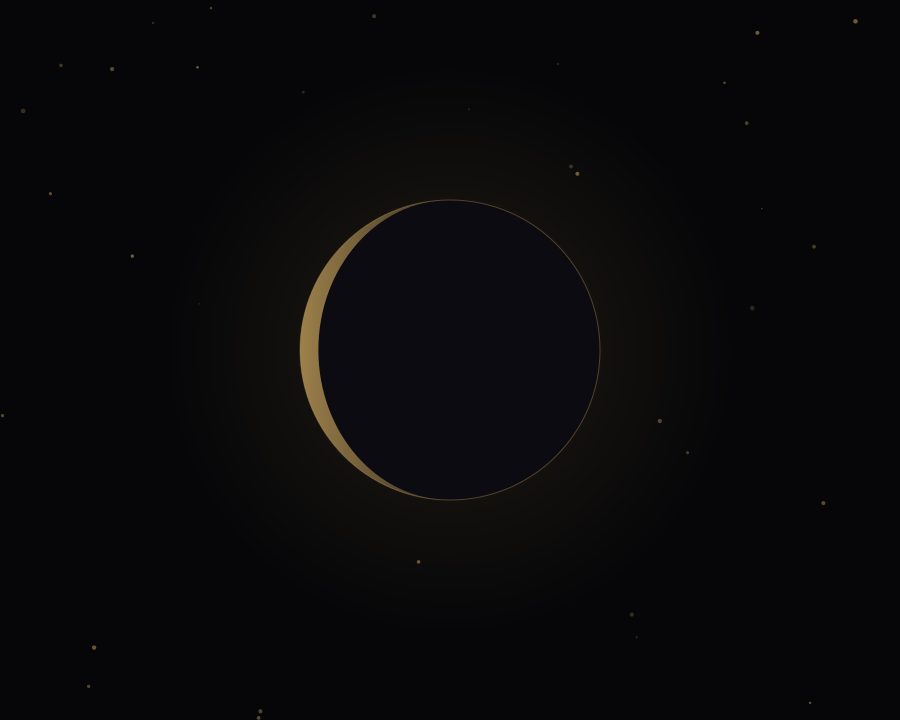
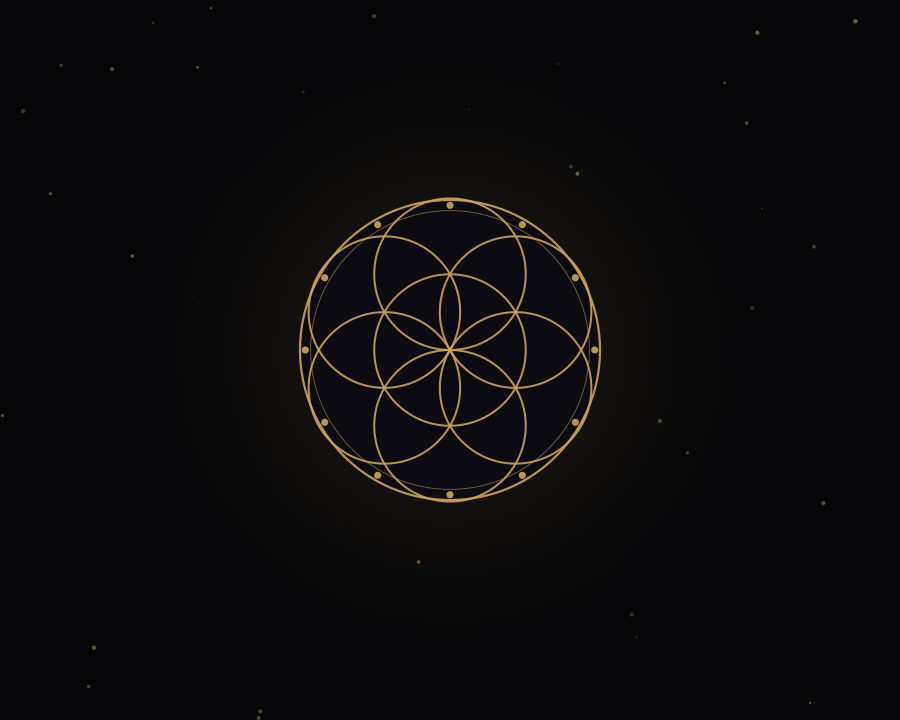
Summons: the seed moves into the moon; the letter is one screen
The bottom seed band is gone entirely. The Seed of Life is now inscribed
perfectly within the moon's limb (its outer ring IS the moon's edge),
generated by store-assets/sacred-background.mjs. Logo and wordmark move
up, the scripture footer closes the single column, and the whole letter
fits one viewport, so Gmail never collapses anything behind 'show quoted
text'.

diff --git a/meek-meet/src/lib/handbook.ts b/meek-meet/src/lib/handbook.ts
@@ -186,17 +186,14 @@ export function toRoman(n: number): string {
 /** The Seed of Life emblem (used on the site and in dark contexts). */
 export const SANCTUM_EMBLEM_URL = "https://meekmeet.com/sacred/seed-of-life.png";
 
-/** The top band: the new moon the whole platform turns on. */
+/** The letter's sky: the dark moon bearing the Seed of Life within its
+ *  limb, presiding over the top of the letter. */
 export const SANCTUM_MOON_BG_URL = "https://meekmeet.com/sacred/new-moon-bg.png";
 
-/** The bottom band: the Seed of Life blooming from below the button and
- *  overflowing off the bottom edge of the letter. */
-export const SANCTUM_SEED_BG_URL = "https://meekmeet.com/sacred/seed-bottom.png";
-
-/** The black-letter shell: the new moon presides over the top of the
- *  letter; the Seed of Life blooms beneath the button and overflows off
- *  the bottom edge. Two anchored bands, so the composition holds at any
- *  email height. */
+/** The black-letter shell: the moon bearing the Seed of Life presides over
+ *  the top of the letter; the scripture footer closes it. The whole letter
+ *  fits on one screen, so nothing is ever collapsed behind "show quoted
+ *  text". */
 function sanctumShell(options: { preheader: string; contentHtml: string }): string {
   const t = EMAIL_THEMES.sanctum;
   return `
@@ -215,33 +212,25 @@ function sanctumShell(options: { preheader: string; contentHtml: string }): stri
         <td align="center" bgcolor="${t.pageBg}" background="${SANCTUM_MOON_BG_URL}" style="background-color:${t.pageBg}; background-image:url('${SANCTUM_MOON_BG_URL}'); background-position:center top; background-repeat:no-repeat;">
           <table role="presentation" width="560" cellpadding="0" cellspacing="0" style="max-width:560px; width:100%;">
             <tr>
-              <td align="center" style="padding:52px 40px 14px;">
-                <img src="${SANCTUM_LOGO_URL}" alt="Meek Meet" width="52" height="52" style="display:inline-block; border-radius:13px; border:0;" />
+              <td align="center" style="padding:30px 40px 10px;">
+                <img src="${SANCTUM_LOGO_URL}" alt="Meek Meet" width="46" height="46" style="display:inline-block; border-radius:11px; border:0;" />
               </td>
             </tr>
             <tr>
-              <td align="center" style="padding:0 40px 30px;">
-                <span style="font-family:${t.headingFont}; font-size:19px; letter-spacing:0.26em; color:#ece8dc;">MEEK&nbsp;MEET</span>
+              <td align="center" style="padding:0 40px 20px;">
+                <span style="font-family:${t.headingFont}; font-size:17px; letter-spacing:0.26em; color:#ece8dc;">MEEK&nbsp;MEET</span>
               </td>
             </tr>
             <tr>
-              <td style="padding:10px 44px 40px; font-family:${t.bodyFont}; color:${t.ink};">
+              <td style="padding:6px 44px 26px; font-family:${t.bodyFont}; color:${t.ink};">
                 ${options.contentHtml}
               </td>
             </tr>
-          </table>
-          <table role="presentation" width="100%" cellpadding="0" cellspacing="0">
             <tr>
-              <td align="center" valign="top" height="240" background="${SANCTUM_SEED_BG_URL}" style="background-image:url('${SANCTUM_SEED_BG_URL}'); background-position:center bottom; background-repeat:no-repeat; padding-top:26px;">
-                <table role="presentation" width="560" cellpadding="0" cellspacing="0" style="max-width:560px; width:100%;">
-                  <tr>
-                    <td align="center" style="padding:0 40px; font-family:${t.bodyFont}; font-size:11.5px; color:${t.faint}; line-height:2;">
-                      <em style="font-size:13px; color:${t.accent};">&ldquo;Blessed are the meek, for they shall inherit the earth.&rdquo;</em><br />
-                      <span style="font-size:10.5px;">The promise has many names: Matthew 5:5 &middot; Psalm 37:11 &middot; Qur&rsquo;an 21:105 &middot; Tao Te Ching 66</span><br />
-                      <a href="https://meekmeet.com" style="color:${t.muted}; text-decoration:underline;">meekmeet.com</a>
-                    </td>
-                  </tr>
-                </table>
+              <td align="center" style="padding:0 40px 34px; font-family:${t.bodyFont}; font-size:11.5px; color:${t.faint}; line-height:2;">
+                <em style="font-size:13px; color:${t.accent};">&ldquo;Blessed are the meek, for they shall inherit the earth.&rdquo;</em><br />
+                <span style="font-size:10.5px;">The promise has many names: Matthew 5:5 &middot; Psalm 37:11 &middot; Qur&rsquo;an 21:105 &middot; Tao Te Ching 66</span><br />
+                <a href="https://meekmeet.com" style="color:${t.muted}; text-decoration:underline;">meekmeet.com</a>
               </td>
             </tr>
           </table>

diff --git a/meek-meet/src/lib/handbook.test.ts b/meek-meet/src/lib/handbook.test.ts
@@ -271,10 +271,10 @@ describe("buildHandbookEmail — the summons", () => {
     expect(html).not.toContain("zoom.us");
   });
 
-  it("wears the sacred geometry: one pattern fills the whole black letter", () => {
+  it("wears the sacred geometry: the moon bears the seed, one screen, no second band", () => {
     const { html } = buildHandbookEmail({ ...base, variant: "returning" });
     expect(html).toContain(SANCTUM_MOON_BG_URL);
-    expect(html).toContain(SANCTUM_SEED_BG_URL);
+    expect(html).not.toContain("seed-bottom"); // no bottom band: nothing to expand
     expect(html).toContain("background-image");
     expect(html).toContain("logo.png"); // the mark still crowns the letter
     expect(html).toContain("#060608"); // true black
@@ -382,7 +382,7 @@ describe("buildLeaderPackEmail — the leader's summons", () => {
   it("wears the sacred geometry in gold on true black", () => {
     const { html } = buildLeaderPackEmail(base);
     expect(html).toContain(SANCTUM_MOON_BG_URL);
-    expect(html).toContain(SANCTUM_SEED_BG_URL);
+    expect(html).not.toContain("seed-bottom"); // one screen, no second band
     expect(html).toContain("#060608");
     expect(html).toContain("#c9a45c");
     expect(html).not.toContain("—");

diff --git a/meek-meet/AGENTS.md b/meek-meet/AGENTS.md
@@ -31,7 +31,7 @@ Meek Meet is a faith-rooted, interfaith community organizing platform. The core 
 - **No reservation, no participation**: `join_url` renders only for signed-in users with an active `going` RSVP — already an invariant, and the foundation of the model.
 - **One theme per weekday** (`packages/core/src/questions/circle-topics.ts`): every circle gathering on the same weekday — anywhere in the country — sits with the same circle topic (Sunday The Source … Saturday Justice & the Common Good), with a ~12-question bank per theme. The theme follows the meeting's weekday **in Australia/Sydney** (`getTopicForDate`), never UTC. The bank is shared with mobile via `@meekmeet/core` — change it in core only.
 - **The questions are never fixed**: four days before a meeting, `/api/handbook-dispatch` (daily cron, 19:00 UTC) creates a `session_handbooks` row (migrations 000038/000039) for every `going` RSVP with **3 questions drawn at random** from the day's theme plus **1 threshold question**, stamps `topic_id`, and emails the member their **summons** — never the session. Idempotent via `(meeting_id, profile_id)`, `emailed_at`, and `meetings.leader_pack_sent_at`.
-- **The summons is sealed (sanctum theme)**: the emails are deliberately near-empty (~70 words) — an envelope line ("For X — and no one else"), a headline ("You are expected." / "The room is yours."), the inscribed date, the wax seal (`III · I` in a gold ring), one breath of law, one button. They NEVER carry the theme, the questions, the roster names, the place, or the join link — everything opens only behind sign-in (`BREAK THE SEAL` → the handbook page; the leader room for the leader). The sanctum theme lives in `EMAIL_THEMES` outside the marketing ladder (`EMAIL_THEME_ORDER` stays 3 rungs).
+- **The summons is sealed (sanctum theme)**: the emails are deliberately near-empty (~70 words) — a black letter whose sky is the dark moon bearing the Seed of Life inscribed within its limb (generated by `store-assets/sacred-background.mjs` → `public/sacred/new-moon-bg.png`), the logo + MEEK MEET wordmark, a standing copy form (`{name},` / `{circle} meets {date} · {mode}.` / the law: answer before you join, in the circle you read what you wrote), one button, one attendance line, and the scripture footer. The whole letter fits on one screen — no second band, nothing collapsed behind "show quoted text". They NEVER carry the theme, the questions, the roster names, the place, or the join link — everything opens only behind sign-in (the handbook page; the leader room for the leader). The sanctum theme lives in `EMAIL_THEMES` outside the marketing ladder (`EMAIL_THEME_ORDER` stays 3 rungs).
 - **Members may redraw any drawn question** ("Draw another" on `/dashboard/handbook/[meetingId]` → `regenerateHandbookQuestion`): same theme, new random question; every redraw is logged to `handbook_question_swaps` — the self-assortment dataset (which questions people answer vs skip). Leader-set custom questions cannot be redrawn.
 - **The form is variable**: `variant = 'first_circle'` (warmer intro, read aloud) or `'returning'` (modest check-in: name, passions, what happened since the last circle). Logic in `src/lib/handbook.ts`.
 - **The leader pack**: the same cron emails each circle leader their summons (also sanctum): the theme, the roster with first-circle markers, and the charge — the full run sheet (`LEADER_RUN_SHEET`) and the liturgies (`LEADER_OPENING_WORDS`/`LEADER_CLOSING_WORDS`) live only in the leader room. **Sessions have no set time — they run until everyone is heard.**
